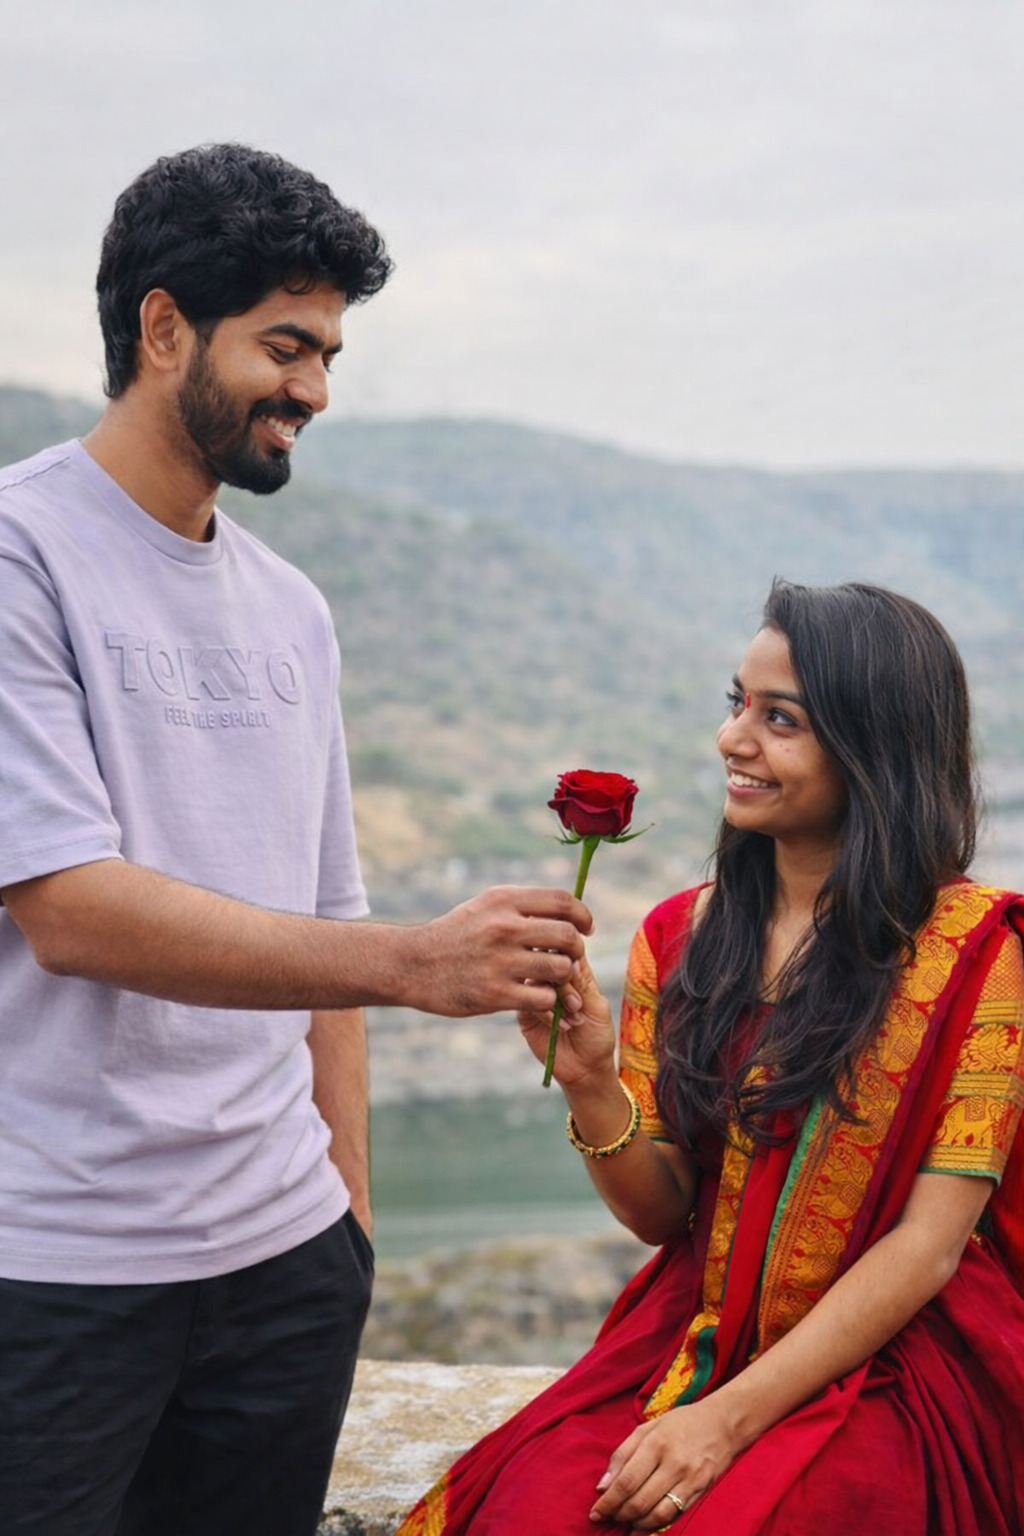
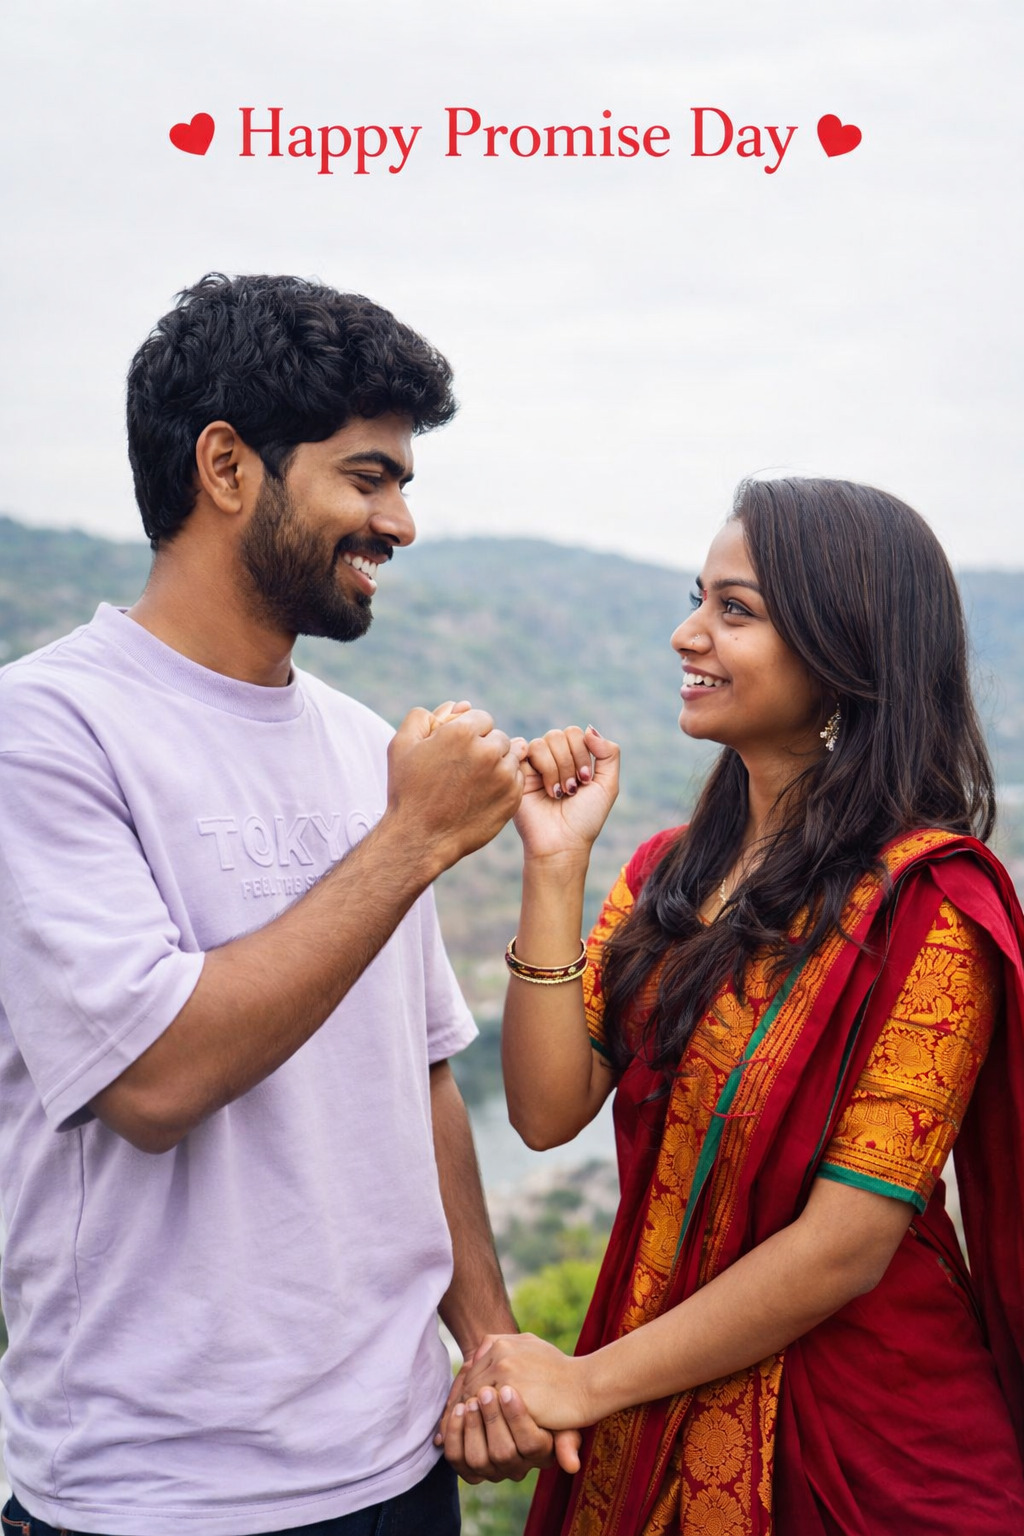
Add files via upload

diff --git a/index.html b/index.html
@@ -130,9 +130,9 @@
 
   <!-- HERO -->
   <section class="hero">
-    <h1>Happy Rose Day Dear❤</h1>
+    <h1>Happy propose Day Dear❤</h1>
     <span>My love, [Sailu]</span>
-    <p>This little human being TK exists because of you.</p>
+    <p>today im giving an promise to u.</p>
   </section>
 
   <!-- PHOTOS -->
@@ -150,11 +150,11 @@
     <h2>My Love Letter 💌</h2>
     <div class="letter">
       <p>
-        “Every rose I give you carries a piece of my heart.” 🌹.<br><br>
-        “Like a rose, your love makes my world bloom.”.
-        One rose for today, a thousand feelings for you..
+        “I promise to stand by you, even on the days when the world feels heavy.” 🌹.<br><br>
+        “I promise to hold your hand in happiness and never let go in tough times.”.
+        Through smiles and storms, my promise is you
         <br><br>
-        Thank you for being you. Forever starts with us ❤
+        I promise to grow with you, not away from you ❤
       </p>
     </div>
   </section>
@@ -163,10 +163,10 @@
   <section>
     <h2>Our Story 🕰</h2>
     <div class="timeline">
-      <div><strong>✨ The day we met:</strong> A moment that changed my life</div>
-      <div><strong>📞 First call:</strong> I smiled like an idiot</div>
-      <div><strong>💬 First fight:</strong> Still chose you</div>
-      <div><strong>❤ Today:</strong> More in love than ever</div>
+      <div><strong>✨ The day we met:</strong> i make an promise i wont leave you</div>
+      <div><strong>📞 First call:</strong> that is fist call to happiness</div>
+      <div><strong>💬 First fight:</strong> closing to you</div>
+      <div><strong>❤ Today:</strong> more love than yesterday</div>
     </div>
   </section>
 
@@ -174,11 +174,11 @@
   <section>
     <h2>One Last Thing 💍</h2>
     <button class="button" onclick="showLove()">Click if you love me ❤</button>
-    <div id="finalMessage">Will you be my Valentine… forever? 💖</div>
+    <div id="finalMessage">can you please give me the promise that i wont live u 💖</div>
   </section>
 
   <script>
-  const CORRECT_PASSWORD = "sairun1813"; // your password
+  const CORRECT_PASSWORD = "TKLWS"; // your password
 
   function checkPassword() {
     const input = document.getElementById("passwordInput").value;
